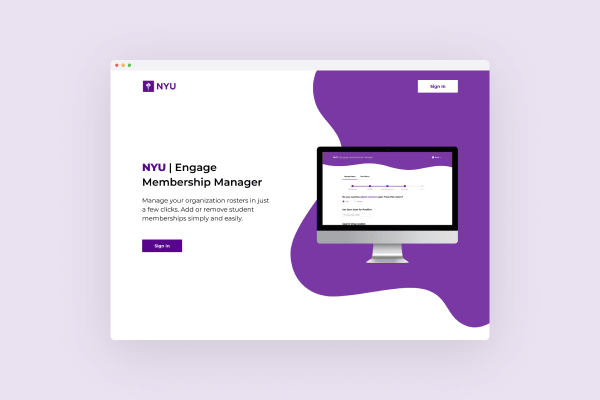
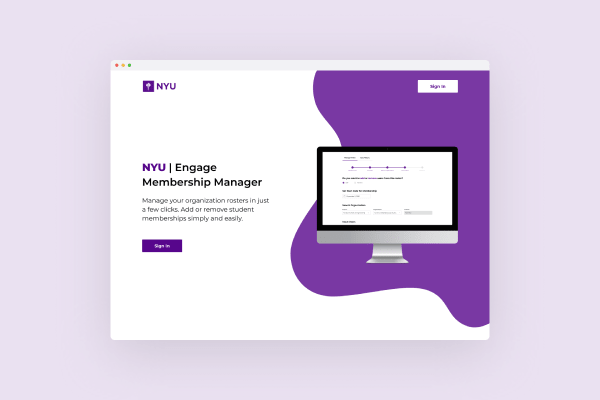
responsive scrollspy

Changed region(s): [[0.54, 0.36, 0.78, 0.57]]

diff --git a/pages/css/style.css b/pages/css/style.css
@@ -1,2 +1,2 @@
-@import url("https://use.typekit.net/pvq3wca.css");.container-xxl,.container-xl,.container-l,.container-m,.container-s,.container-xs,.container-xxs{margin:0 auto;width:95%;z-index:-1}.container-xxl{max-width:100%}.container-xl{max-width:1500px}.container-l{max-width:1200px}.container-m{max-width:1000px}.container-s{max-width:800px}.container-xs{max-width:680px}.container-xxs{max-width:450px}@media only screen and (min-width: 601px){.container-s,.container-xs,.container-xxs{width:85%}}@media only screen and (min-width: 993px){.container-s,.container-xs,.container-xxs{width:70%}}.col .row{margin-left:-.75rem;margin-right:-.75rem}.row{margin:30px 0}.row-paragraph{margin-top:60px}.row-parasection,.row-section{margin-top:100px}.row-intro{padding:50px 0}.row-tagline{padding:40px 0}@media only screen and (max-width: 601px){.row-intro{padding:20px 0}}.section{padding-top:1rem;padding-bottom:1rem}.section.no-pad{padding:0}.section.no-pad-bot{padding-bottom:0}.section.no-pad-top{padding-top:0}.row{margin-left:auto;margin-right:auto;margin-bottom:0}.row:after{content:"";display:table;clear:both}.row .col{float:left;-webkit-box-sizing:border-box;box-sizing:border-box;padding:0 .75rem;min-height:1px}.row .col[class*=pull-],.row .col[class*=push-]{position:relative}.row .col.s1{width:8.3333333333%;margin-left:auto;left:auto;right:auto}.row .col.s2{width:16.6666666667%;margin-left:auto;left:auto;right:auto}.row .col.s3{width:25%;margin-left:auto;left:auto;right:auto}.row .col.s4{width:33.3333333333%;margin-left:auto;left:auto;right:auto}.row .col.s5{width:41.6666666667%;margin-left:auto;left:auto;right:auto}.row .col.s6{width:50%;margin-left:auto;left:auto;right:auto}.row .col.s7{width:58.3333333333%;margin-left:auto;left:auto;right:auto}.row .col.s8{width:66.6666666667%;margin-left:auto;left:auto;right:auto}.row .col.s9{width:75%;margin-left:auto;left:auto;right:auto}.row .col.s10{width:83.3333333333%;margin-left:auto;left:auto;right:auto}.row .col.s11{width:91.6666666667%;margin-left:auto;left:auto;right:auto}.row .col.s12{width:100%;margin-left:auto;left:auto;right:auto}.row .col.offset-s1{margin-left:8.3333333333%}.row .col.pull-s1{right:8.3333333333%}.row .col.push-s1{left:8.3333333333%}.row .col.offset-s2{margin-left:16.6666666667%}.row .col.pull-s2{right:16.6666666667%}.row .col.push-s2{left:16.6666666667%}.row .col.offset-s3{margin-left:25%}.row .col.pull-s3{right:25%}.row .col.push-s3{left:25%}.row .col.offset-s4{margin-left:33.3333333333%}.row .col.pull-s4{right:33.3333333333%}.row .col.push-s4{left:33.3333333333%}.row .col.offset-s5{margin-left:41.6666666667%}.row .col.pull-s5{right:41.6666666667%}.row .col.push-s5{left:41.6666666667%}.row .col.offset-s6{margin-left:50%}.row .col.pull-s6{right:50%}.row .col.push-s6{left:50%}.row .col.offset-s7{margin-left:58.3333333333%}.row .col.pull-s7{right:58.3333333333%}.row .col.push-s7{left:58.3333333333%}.row .col.offset-s8{margin-left:66.6666666667%}.row .col.pull-s8{right:66.6666666667%}.row .col.push-s8{left:66.6666666667%}.row .col.offset-s9{margin-left:75%}.row .col.pull-s9{right:75%}.row .col.push-s9{left:75%}.row .col.offset-s10{margin-left:83.3333333333%}.row .col.pull-s10{right:83.3333333333%}.row .col.push-s10{left:83.3333333333%}.row .col.offset-s11{margin-left:91.6666666667%}.row .col.pull-s11{right:91.6666666667%}.row .col.push-s11{left:91.6666666667%}.row .col.offset-s12{margin-left:100%}.row .col.pull-s12{right:100%}.row .col.push-s12{left:100%}@media only screen and (min-width: 601px){.row .col.m1{width:8.3333333333%;margin-left:auto;left:auto;right:auto}.row .col.m2{width:16.6666666667%;margin-left:auto;left:auto;right:auto}.row .col.m3{width:25%;margin-left:auto;left:auto;right:auto}.row .col.m4{width:33.3333333333%;margin-left:auto;left:auto;right:auto}.row .col.m5{width:41.6666666667%;margin-left:auto;left:auto;right:auto}.row .col.m6{width:50%;margin-left:auto;left:auto;right:auto}.row .col.m7{width:58.3333333333%;margin-left:auto;left:auto;right:auto}.row .col.m8{width:66.6666666667%;margin-left:auto;left:auto;right:auto}.row .col.m9{width:75%;margin-left:auto;left:auto;right:auto}.row .col.m10{width:83.3333333333%;margin-left:auto;left:auto;right:auto}.row .col.m11{width:91.6666666667%;margin-left:auto;left:auto;right:auto}.row .col.m12{width:100%;margin-left:auto;left:auto;right:auto}.row .col.offset-m1{margin-left:8.3333333333%}.row .col.pull-m1{right:8.3333333333%}.row .col.push-m1{left:8.3333333333%}.row .col.offset-m2{margin-left:16.6666666667%}.row .col.pull-m2{right:16.6666666667%}.row .col.push-m2{left:16.6666666667%}.row .col.offset-m3{margin-left:25%}.row .col.pull-m3{right:25%}.row .col.push-m3{left:25%}.row .col.offset-m4{margin-left:33.3333333333%}.row .col.pull-m4{right:33.3333333333%}.row .col.push-m4{left:33.3333333333%}.row .col.offset-m5{margin-left:41.6666666667%}.row .col.pull-m5{right:41.6666666667%}.row .col.push-m5{left:41.6666666667%}.row .col.offset-m6{margin-left:50%}.row .col.pull-m6{right:50%}.row .col.push-m6{left:50%}.row .col.offset-m7{margin-left:58.3333333333%}.row .col.pull-m7{right:58.3333333333%}.row .col.push-m7{left:58.3333333333%}.row .col.offset-m8{margin-left:66.6666666667%}.row .col.pull-m8{right:66.6666666667%}.row .col.push-m8{left:66.6666666667%}.row .col.offset-m9{margin-left:75%}.row .col.pull-m9{right:75%}.row .col.push-m9{left:75%}.row .col.offset-m10{margin-left:83.3333333333%}.row .col.pull-m10{right:83.3333333333%}.row .col.push-m10{left:83.3333333333%}.row .col.offset-m11{margin-left:91.6666666667%}.row .col.pull-m11{right:91.6666666667%}.row .col.push-m11{left:91.6666666667%}.row .col.offset-m12{margin-left:100%}.row .col.pull-m12{right:100%}.row .col.push-m12{left:100%}}@media only screen and (min-width: 993px){.row .col.l1{width:8.3333333333%;margin-left:auto;left:auto;right:auto}.row .col.l2{width:16.6666666667%;margin-left:auto;left:auto;right:auto}.row .col.l3{width:25%;margin-left:auto;left:auto;right:auto}.row .col.l4{width:33.3333333333%;margin-left:auto;left:auto;right:auto}.row .col.l5{width:41.6666666667%;margin-left:auto;left:auto;right:auto}.row .col.l6{width:50%;margin-left:auto;left:auto;right:auto}.row .col.l7{width:58.3333333333%;margin-left:auto;left:auto;right:auto}.row .col.l8{width:66.6666666667%;margin-left:auto;left:auto;right:auto}.row .col.l9{width:75%;margin-left:auto;left:auto;right:auto}.row .col.l10{width:83.3333333333%;margin-left:auto;left:auto;right:auto}.row .col.l11{width:91.6666666667%;margin-left:auto;left:auto;right:auto}.row .col.l12{width:100%;margin-left:auto;left:auto;right:auto}.row .col.offset-l1{margin-left:8.3333333333%}.row .col.pull-l1{right:8.3333333333%}.row .col.push-l1{left:8.3333333333%}.row .col.offset-l2{margin-left:16.6666666667%}.row .col.pull-l2{right:16.6666666667%}.row .col.push-l2{left:16.6666666667%}.row .col.offset-l3{margin-left:25%}.row .col.pull-l3{right:25%}.row .col.push-l3{left:25%}.row .col.offset-l4{margin-left:33.3333333333%}.row .col.pull-l4{right:33.3333333333%}.row .col.push-l4{left:33.3333333333%}.row .col.offset-l5{margin-left:41.6666666667%}.row .col.pull-l5{right:41.6666666667%}.row .col.push-l5{left:41.6666666667%}.row .col.offset-l6{margin-left:50%}.row .col.pull-l6{right:50%}.row .col.push-l6{left:50%}.row .col.offset-l7{margin-left:58.3333333333%}.row .col.pull-l7{right:58.3333333333%}.row .col.push-l7{left:58.3333333333%}.row .col.offset-l8{margin-left:66.6666666667%}.row .col.pull-l8{right:66.6666666667%}.row .col.push-l8{left:66.6666666667%}.row .col.offset-l9{margin-left:75%}.row .col.pull-l9{right:75%}.row .col.push-l9{left:75%}.row .col.offset-l10{margin-left:83.3333333333%}.row .col.pull-l10{right:83.3333333333%}.row .col.push-l10{left:83.3333333333%}.row .col.offset-l11{margin-left:91.6666666667%}.row .col.pull-l11{right:91.6666666667%}.row .col.push-l11{left:91.6666666667%}.row .col.offset-l12{margin-left:100%}.row .col.pull-l12{right:100%}.row .col.push-l12{left:100%}}@media only screen and (min-width: 1201px){.row .col.xl1{width:8.3333333333%;margin-left:auto;left:auto;right:auto}.row .col.xl2{width:16.6666666667%;margin-left:auto;left:auto;right:auto}.row .col.xl3{width:25%;margin-left:auto;left:auto;right:auto}.row .col.xl4{width:33.3333333333%;margin-left:auto;left:auto;right:auto}.row .col.xl5{width:41.6666666667%;margin-left:auto;left:auto;right:auto}.row .col.xl6{width:50%;margin-left:auto;left:auto;right:auto}.row .col.xl7{width:58.3333333333%;margin-left:auto;left:auto;right:auto}.row .col.xl8{width:66.6666666667%;margin-left:auto;left:auto;right:auto}.row .col.xl9{width:75%;margin-left:auto;left:auto;right:auto}.row .col.xl10{width:83.3333333333%;margin-left:auto;left:auto;right:auto}.row .col.xl11{width:91.6666666667%;margin-left:auto;left:auto;right:auto}.row .col.xl12{width:100%;margin-left:auto;left:auto;right:auto}.row .col.offset-xl1{margin-left:8.3333333333%}.row .col.pull-xl1{right:8.3333333333%}.row .col.push-xl1{left:8.3333333333%}.row .col.offset-xl2{margin-left:16.6666666667%}.row .col.pull-xl2{right:16.6666666667%}.row .col.push-xl2{left:16.6666666667%}.row .col.offset-xl3{margin-left:25%}.row .col.pull-xl3{right:25%}.row .col.push-xl3{left:25%}.row .col.offset-xl4{margin-left:33.3333333333%}.row .col.pull-xl4{right:33.3333333333%}.row .col.push-xl4{left:33.3333333333%}.row .col.offset-xl5{margin-left:41.6666666667%}.row .col.pull-xl5{right:41.6666666667%}.row .col.push-xl5{left:41.6666666667%}.row .col.offset-xl6{margin-left:50%}.row .col.pull-xl6{right:50%}.row .col.push-xl6{left:50%}.row .col.offset-xl7{margin-left:58.3333333333%}.row .col.pull-xl7{right:58.3333333333%}.row .col.push-xl7{left:58.3333333333%}.row .col.offset-xl8{margin-left:66.6666666667%}.row .col.pull-xl8{right:66.6666666667%}.row .col.push-xl8{left:66.6666666667%}.row .col.offset-xl9{margin-left:75%}.row .col.pull-xl9{right:75%}.row .col.push-xl9{left:75%}.row .col.offset-xl10{margin-left:83.3333333333%}.row .col.pull-xl10{right:83.3333333333%}.row .col.push-xl10{left:83.3333333333%}.row .col.offset-xl11{margin-left:91.6666666667%}.row .col.pull-xl11{right:91.6666666667%}.row .col.push-xl11{left:91.6666666667%}.row .col.offset-xl12{margin-left:100%}.row .col.pull-xl12{right:100%}.row .col.push-xl12{left:100%}}html{overflow-y:scroll}body{font-family:canada-type-gibson, sans-serif;font-weight:300;font-style:normal;line-height:1.6;margin:0;padding:60px 0 0 0}b{font-weight:500}.list{margin:20px 0}::-webkit-scrollbar{width:8px}::-webkit-scrollbar-track{background:white}::-webkit-scrollbar-thumb{background:#757575}::-webkit-scrollbar-thumb:hover{background:#EB0014}::selection{background:#EB0014;color:white}::-moz-selection{background:#EB0014;color:white}.pace{-webkit-pointer-events:none;pointer-events:none;-webkit-user-select:none;-moz-user-select:none;user-select:none}.pace-inactive{display:none}.pace .pace-progress{background-image:linear-gradient(to left, #EB0014, #EB6100, #EBD700, #8AEB00, #00EBD7, #0089EB, #0014EB, #6200EB, #D700EB);background-image:-webkit-linear-gradient(to left, #EB0014, #EB6100, #EBD700, #8AEB00, #00EBD7, #0089EB, #0014EB, #6200EB, #D700EB);background-image:linear-gradient(to left, #EB0014, #EB6100, #EBD700, #8AEB00, #00EBD7, #0089EB, #0014EB, #6200EB, #D700EB);position:fixed;z-index:2000;top:0;right:100%;width:100%;height:4px}.subheader,.body,.body ul{margin-top:0}.header{font-weight:500;font-size:36px;text-align:center}.subheader{font-weight:500;font-size:24px}.body,li{font-size:18px}.body span,li span{font-weight:500;color:#EB0014}.body span a,li span a{color:#EB0014}.body span a:hover,li span a:hover{color:#B0000F}a{color:#EB0014;text-decoration:none}a:hover{transition:.3s;color:#B0000F;text-decoration:underline}.hint{font-size:13px;color:white}img{width:100%;max-width:100%;-khtml-user-select:none;-o-user-select:none;-moz-user-select:none;-webkit-user-select:none;user-select:none}video{max-width:100%;height:auto}.header-medium,.header-small{display:none}.round{border-radius:8px}.shadow{box-shadow:0 4px 12px 2px rgba(0,0,0,0.1);border-radius:6px}.caption{font-family:source-code-pro,monospace;font-size:13px;color:#757575;margin:4px 0}.caption span{font-style:italic;font-weight:bold;color:#757575}.caption a{text-underline-position:under}.hide{display:none !important}#navbar,#navItems{text-align:right;width:100%;box-sizing:border-box;position:fixed;top:0;left:0;height:60px;overflow:hidden;z-index:9999;transition:top .3s}.nav-logo,.nav-items{text-decoration:none}.nav-logo{position:relative;margin:0;z-index:99999}.nav-logo img{position:absolute;height:40px;cursor:pointer;top:10px;left:20px;display:inline;overflow:hidden}.nav-logo .swap__front{z-index:9999;transition:opacity .2s linear}.nav-logo:hover>.swap__front{opacity:0}.swap__front,.swap__back{width:auto}.nav-items{margin:0;padding-right:50px;line-height:65px;list-style:none}.nav-items li{display:inline-block;padding-left:50px}.nav-items li a{text-decoration:none;text-transform:uppercase;font-size:18px;color:#EB0014}.nav-items li a:hover{transition:.3s;color:#B0000F}.icon-bar{background-color:#EB0014;display:block;width:22px;height:2px;border-radius:1px;margin-bottom:4px;transition:opacity, transform;transition-duration:200ms;transition-timing-function:cubic-bezier(0.7, 0, 0, 0.7)}.hamburger-menu{cursor:pointer;position:fixed;top:25px;right:20px;z-index:9999;display:none;transition:top .3s}.hamburger-menu:not(.collapsed) .icon-bar:nth-child(1){transform:translateY(6px) rotate(45deg)}.hamburger-menu:not(.collapsed) .icon-bar:nth-child(2){opacity:0;transform:translateX(-10px)}.hamburger-menu:not(.collapsed) .icon-bar:nth-child(3){transform:translateY(-6px) rotate(-45deg)}.mobile-overlay{position:fixed;top:0;left:0;height:100%;width:100%;background:rgba(255,255,255,0.95);overflow:auto;z-index:999;display:none}.mobile-nav-items{padding:0;margin:65px 0px;text-align:center;list-style:none}.mobile-nav-items li{display:block;padding-top:30px}.mobile-nav-items li a{text-decoration:none;font-size:24px;color:#EB0014;text-transform:uppercase}.mobile-nav-items li a:hover{transition:.3s;color:#B0000F}.sticky{position:-webkit-sticky;position:sticky;top:0}.sticky>nav{position:absolute;align-self:start;margin-top:80px}.section-nav{font-family:source-code-pro,monospace;position:fixed;z-index:1;right:25px;overflow-x:hidden;padding-left:0;border-left:1px solid rgba(0,0,0,0.1);max-width:200px;width:90%}.section-nav a{text-decoration:none;display:block;padding:.125rem 0;color:#757575;transition:all 50ms ease-in-out}.section-nav a:hover,.section-nav a:focus{color:#EB0014;transition:.3s;font-weight:bold}.scrollspy-list,.scrollspy-order{list-style:none;margin:0;padding:0}.scrollspy{margin-left:1rem;padding:1.5px 0;font-size:13px}.scrollspy.active>a{color:#EB0014;font-weight:bold}.bottom-nav,.tab button{font-family:canada-type-gibson, sans-serif;font-weight:300;font-style:normal;background-color:white;box-shadow:0 4px 12px 2px rgba(0,0,0,0.1);border:none;padding:20px;width:100%;display:inline-block;margin:10px 0;cursor:pointer;color:#757575;font-size:18px;border-radius:6px}.bottom-nav:hover,.tab button:hover{color:#EB0014;transition:.3s}.tab button.active{background-color:#F0F0F0;color:black;box-shadow:none;outline:none}.resource{background-color:white;box-shadow:0 4px 12px 2px rgba(0,0,0,0.1);border-radius:6px;padding:32px;margin:0;height:330px}.footer-bar{margin:80px 0 50px 0}.footer-bar .fa-envelope,.footer-bar .fa-linkedin-in,.footer-bar .fa-instagram,.footer-bar .fa-vimeo-v,.footer-bar .fa-github,.footer-bar .fa-dribbble,.footer-bar .fa-behance{display:inline-block;padding:8px;font-size:20px;width:20px;height:20px;text-align:center;text-decoration:none;margin:0 5px 0 0;border-radius:50%;background:#EB0014;color:white}.footer-bar .fa-envelope:hover,.footer-bar .fa-linkedin-in:hover,.footer-bar .fa-instagram:hover,.footer-bar .fa-vimeo-v:hover,.footer-bar .fa-github:hover,.footer-bar .fa-dribbble:hover,.footer-bar .fa-behance:hover{transition:.3s;background:#B0000F}.back-to-top a{color:#EB0014}.back-to-top a:hover{color:#B0000F}.copyright{font-family:source-code-pro,monospace;font-size:13px;color:#757575;margin-top:50px}.grid,.tabcontent{margin-left:auto;margin-right:auto}.grid:after,.tabcontent:after{content:'';display:block;clear:both}.grid-sizer--width1,.grid-item--width1{margin:1.5%;width:30.33333333%}.grid-sizer--width2,.grid-item--width2{margin:1.5%;width:47%}.grid-item{float:left;height:auto}.grid-item img{display:block}.grid-item .fa-video,.grid-item .fa-external-link-alt{font-size:24px;color:white;opacity:0.8;text-shadow:1px 1px 8px rgba(0,0,0,0.5);position:absolute;top:16px}.grid-item .fa-video{left:16px}.grid-item .fa-external-link-alt{right:16px}.tagline,.specs-title,.specs-list{margin:12px 0}.tagline{font-size:32px;color:#757575;font-family:source-code-pro,monospace}.specs{list-style:none;color:#757575;padding:0}.specs-title,.specs-list{font-size:18px}.specs-title{font-weight:500}.specs-mobile{font-size:18px;color:#757575;padding:0;display:none}@media only screen and (max-width: 1479px){.section-nav{display:none}}@media only screen and (max-width: 1200px){.about{margin-top:40px}}@media only screen and (max-width: 992px){.header-large{display:none}.header-medium{display:block}.animation,.hint{display:none}.grid-sizer--width1,.grid-item--width1{width:47%}}@media only screen and (max-width: 601px){.row-paragraph{margin-top:30px}.row-parasection{margin-top:60px}#navItems{background:none}.hamburger-menu,.specs-mobile{display:block}.nav-items,.specs{display:none}.header-medium{display:none}.header-small{display:block}.header{font-size:32px}.tagline{font-size:24px}.subheader{font-size:21px}.body,.quickNav a.selected,.quickNav a.unselected,li,.subheader-left,.subheader-right,.specs-mobile,.fa-arrow-up,.button-details p{font-size:16px}.copyright,.caption,.button{font-size:12px}.caption{margin:6px 0}.grid-item .fa-video,.grid-item .fa-external-link-alt{font-size:21px;top:12px}.grid-item .fa-video{left:12px}.grid-item .fa-external-link-alt{right:12px}.grid-sizer--width1,.grid-item--width1,.grid-sizer--width2,.grid-item--width2{margin:3%;width:94%}.row-tagline{padding:20px 0}.resource{height:auto}}@media only screen and (max-width: 361px){.header,.tagline{font-size:28px}}
+@import url("https://use.typekit.net/pvq3wca.css");.container-xxl,.container-xl,.container-l,.container-m,.container-s,.container-xs,.container-xxs{margin:0 auto;width:95%;z-index:-1}.container-xxl{max-width:100%}.container-xl{max-width:1500px}.container-l{max-width:1200px}.container-m{max-width:1000px}.container-s{max-width:800px}.container-xs{max-width:680px}.container-xxs{max-width:450px}@media only screen and (min-width: 601px){.container-s,.container-xs,.container-xxs{width:85%}}@media only screen and (min-width: 993px){.container-s,.container-xs,.container-xxs{width:70%}}.col .row{margin-left:-.75rem;margin-right:-.75rem}.row{margin:30px 0}.row-paragraph{margin-top:60px}.row-parasection,.row-section{margin-top:100px}.row-intro{padding:50px 0}.row-tagline{padding:40px 0}@media only screen and (max-width: 601px){.row-intro{padding:20px 0}}.section{padding-top:1rem;padding-bottom:1rem}.section.no-pad{padding:0}.section.no-pad-bot{padding-bottom:0}.section.no-pad-top{padding-top:0}.row{margin-left:auto;margin-right:auto;margin-bottom:0}.row:after{content:"";display:table;clear:both}.row .col{float:left;-webkit-box-sizing:border-box;box-sizing:border-box;padding:0 .75rem;min-height:1px}.row .col[class*=pull-],.row .col[class*=push-]{position:relative}.row .col.s1{width:8.3333333333%;margin-left:auto;left:auto;right:auto}.row .col.s2{width:16.6666666667%;margin-left:auto;left:auto;right:auto}.row .col.s3{width:25%;margin-left:auto;left:auto;right:auto}.row .col.s4{width:33.3333333333%;margin-left:auto;left:auto;right:auto}.row .col.s5{width:41.6666666667%;margin-left:auto;left:auto;right:auto}.row .col.s6{width:50%;margin-left:auto;left:auto;right:auto}.row .col.s7{width:58.3333333333%;margin-left:auto;left:auto;right:auto}.row .col.s8{width:66.6666666667%;margin-left:auto;left:auto;right:auto}.row .col.s9{width:75%;margin-left:auto;left:auto;right:auto}.row .col.s10{width:83.3333333333%;margin-left:auto;left:auto;right:auto}.row .col.s11{width:91.6666666667%;margin-left:auto;left:auto;right:auto}.row .col.s12{width:100%;margin-left:auto;left:auto;right:auto}.row .col.offset-s1{margin-left:8.3333333333%}.row .col.pull-s1{right:8.3333333333%}.row .col.push-s1{left:8.3333333333%}.row .col.offset-s2{margin-left:16.6666666667%}.row .col.pull-s2{right:16.6666666667%}.row .col.push-s2{left:16.6666666667%}.row .col.offset-s3{margin-left:25%}.row .col.pull-s3{right:25%}.row .col.push-s3{left:25%}.row .col.offset-s4{margin-left:33.3333333333%}.row .col.pull-s4{right:33.3333333333%}.row .col.push-s4{left:33.3333333333%}.row .col.offset-s5{margin-left:41.6666666667%}.row .col.pull-s5{right:41.6666666667%}.row .col.push-s5{left:41.6666666667%}.row .col.offset-s6{margin-left:50%}.row .col.pull-s6{right:50%}.row .col.push-s6{left:50%}.row .col.offset-s7{margin-left:58.3333333333%}.row .col.pull-s7{right:58.3333333333%}.row .col.push-s7{left:58.3333333333%}.row .col.offset-s8{margin-left:66.6666666667%}.row .col.pull-s8{right:66.6666666667%}.row .col.push-s8{left:66.6666666667%}.row .col.offset-s9{margin-left:75%}.row .col.pull-s9{right:75%}.row .col.push-s9{left:75%}.row .col.offset-s10{margin-left:83.3333333333%}.row .col.pull-s10{right:83.3333333333%}.row .col.push-s10{left:83.3333333333%}.row .col.offset-s11{margin-left:91.6666666667%}.row .col.pull-s11{right:91.6666666667%}.row .col.push-s11{left:91.6666666667%}.row .col.offset-s12{margin-left:100%}.row .col.pull-s12{right:100%}.row .col.push-s12{left:100%}@media only screen and (min-width: 601px){.row .col.m1{width:8.3333333333%;margin-left:auto;left:auto;right:auto}.row .col.m2{width:16.6666666667%;margin-left:auto;left:auto;right:auto}.row .col.m3{width:25%;margin-left:auto;left:auto;right:auto}.row .col.m4{width:33.3333333333%;margin-left:auto;left:auto;right:auto}.row .col.m5{width:41.6666666667%;margin-left:auto;left:auto;right:auto}.row .col.m6{width:50%;margin-left:auto;left:auto;right:auto}.row .col.m7{width:58.3333333333%;margin-left:auto;left:auto;right:auto}.row .col.m8{width:66.6666666667%;margin-left:auto;left:auto;right:auto}.row .col.m9{width:75%;margin-left:auto;left:auto;right:auto}.row .col.m10{width:83.3333333333%;margin-left:auto;left:auto;right:auto}.row .col.m11{width:91.6666666667%;margin-left:auto;left:auto;right:auto}.row .col.m12{width:100%;margin-left:auto;left:auto;right:auto}.row .col.offset-m1{margin-left:8.3333333333%}.row .col.pull-m1{right:8.3333333333%}.row .col.push-m1{left:8.3333333333%}.row .col.offset-m2{margin-left:16.6666666667%}.row .col.pull-m2{right:16.6666666667%}.row .col.push-m2{left:16.6666666667%}.row .col.offset-m3{margin-left:25%}.row .col.pull-m3{right:25%}.row .col.push-m3{left:25%}.row .col.offset-m4{margin-left:33.3333333333%}.row .col.pull-m4{right:33.3333333333%}.row .col.push-m4{left:33.3333333333%}.row .col.offset-m5{margin-left:41.6666666667%}.row .col.pull-m5{right:41.6666666667%}.row .col.push-m5{left:41.6666666667%}.row .col.offset-m6{margin-left:50%}.row .col.pull-m6{right:50%}.row .col.push-m6{left:50%}.row .col.offset-m7{margin-left:58.3333333333%}.row .col.pull-m7{right:58.3333333333%}.row .col.push-m7{left:58.3333333333%}.row .col.offset-m8{margin-left:66.6666666667%}.row .col.pull-m8{right:66.6666666667%}.row .col.push-m8{left:66.6666666667%}.row .col.offset-m9{margin-left:75%}.row .col.pull-m9{right:75%}.row .col.push-m9{left:75%}.row .col.offset-m10{margin-left:83.3333333333%}.row .col.pull-m10{right:83.3333333333%}.row .col.push-m10{left:83.3333333333%}.row .col.offset-m11{margin-left:91.6666666667%}.row .col.pull-m11{right:91.6666666667%}.row .col.push-m11{left:91.6666666667%}.row .col.offset-m12{margin-left:100%}.row .col.pull-m12{right:100%}.row .col.push-m12{left:100%}}@media only screen and (min-width: 993px){.row .col.l1{width:8.3333333333%;margin-left:auto;left:auto;right:auto}.row .col.l2{width:16.6666666667%;margin-left:auto;left:auto;right:auto}.row .col.l3{width:25%;margin-left:auto;left:auto;right:auto}.row .col.l4{width:33.3333333333%;margin-left:auto;left:auto;right:auto}.row .col.l5{width:41.6666666667%;margin-left:auto;left:auto;right:auto}.row .col.l6{width:50%;margin-left:auto;left:auto;right:auto}.row .col.l7{width:58.3333333333%;margin-left:auto;left:auto;right:auto}.row .col.l8{width:66.6666666667%;margin-left:auto;left:auto;right:auto}.row .col.l9{width:75%;margin-left:auto;left:auto;right:auto}.row .col.l10{width:83.3333333333%;margin-left:auto;left:auto;right:auto}.row .col.l11{width:91.6666666667%;margin-left:auto;left:auto;right:auto}.row .col.l12{width:100%;margin-left:auto;left:auto;right:auto}.row .col.offset-l1{margin-left:8.3333333333%}.row .col.pull-l1{right:8.3333333333%}.row .col.push-l1{left:8.3333333333%}.row .col.offset-l2{margin-left:16.6666666667%}.row .col.pull-l2{right:16.6666666667%}.row .col.push-l2{left:16.6666666667%}.row .col.offset-l3{margin-left:25%}.row .col.pull-l3{right:25%}.row .col.push-l3{left:25%}.row .col.offset-l4{margin-left:33.3333333333%}.row .col.pull-l4{right:33.3333333333%}.row .col.push-l4{left:33.3333333333%}.row .col.offset-l5{margin-left:41.6666666667%}.row .col.pull-l5{right:41.6666666667%}.row .col.push-l5{left:41.6666666667%}.row .col.offset-l6{margin-left:50%}.row .col.pull-l6{right:50%}.row .col.push-l6{left:50%}.row .col.offset-l7{margin-left:58.3333333333%}.row .col.pull-l7{right:58.3333333333%}.row .col.push-l7{left:58.3333333333%}.row .col.offset-l8{margin-left:66.6666666667%}.row .col.pull-l8{right:66.6666666667%}.row .col.push-l8{left:66.6666666667%}.row .col.offset-l9{margin-left:75%}.row .col.pull-l9{right:75%}.row .col.push-l9{left:75%}.row .col.offset-l10{margin-left:83.3333333333%}.row .col.pull-l10{right:83.3333333333%}.row .col.push-l10{left:83.3333333333%}.row .col.offset-l11{margin-left:91.6666666667%}.row .col.pull-l11{right:91.6666666667%}.row .col.push-l11{left:91.6666666667%}.row .col.offset-l12{margin-left:100%}.row .col.pull-l12{right:100%}.row .col.push-l12{left:100%}}@media only screen and (min-width: 1201px){.row .col.xl1{width:8.3333333333%;margin-left:auto;left:auto;right:auto}.row .col.xl2{width:16.6666666667%;margin-left:auto;left:auto;right:auto}.row .col.xl3{width:25%;margin-left:auto;left:auto;right:auto}.row .col.xl4{width:33.3333333333%;margin-left:auto;left:auto;right:auto}.row .col.xl5{width:41.6666666667%;margin-left:auto;left:auto;right:auto}.row .col.xl6{width:50%;margin-left:auto;left:auto;right:auto}.row .col.xl7{width:58.3333333333%;margin-left:auto;left:auto;right:auto}.row .col.xl8{width:66.6666666667%;margin-left:auto;left:auto;right:auto}.row .col.xl9{width:75%;margin-left:auto;left:auto;right:auto}.row .col.xl10{width:83.3333333333%;margin-left:auto;left:auto;right:auto}.row .col.xl11{width:91.6666666667%;margin-left:auto;left:auto;right:auto}.row .col.xl12{width:100%;margin-left:auto;left:auto;right:auto}.row .col.offset-xl1{margin-left:8.3333333333%}.row .col.pull-xl1{right:8.3333333333%}.row .col.push-xl1{left:8.3333333333%}.row .col.offset-xl2{margin-left:16.6666666667%}.row .col.pull-xl2{right:16.6666666667%}.row .col.push-xl2{left:16.6666666667%}.row .col.offset-xl3{margin-left:25%}.row .col.pull-xl3{right:25%}.row .col.push-xl3{left:25%}.row .col.offset-xl4{margin-left:33.3333333333%}.row .col.pull-xl4{right:33.3333333333%}.row .col.push-xl4{left:33.3333333333%}.row .col.offset-xl5{margin-left:41.6666666667%}.row .col.pull-xl5{right:41.6666666667%}.row .col.push-xl5{left:41.6666666667%}.row .col.offset-xl6{margin-left:50%}.row .col.pull-xl6{right:50%}.row .col.push-xl6{left:50%}.row .col.offset-xl7{margin-left:58.3333333333%}.row .col.pull-xl7{right:58.3333333333%}.row .col.push-xl7{left:58.3333333333%}.row .col.offset-xl8{margin-left:66.6666666667%}.row .col.pull-xl8{right:66.6666666667%}.row .col.push-xl8{left:66.6666666667%}.row .col.offset-xl9{margin-left:75%}.row .col.pull-xl9{right:75%}.row .col.push-xl9{left:75%}.row .col.offset-xl10{margin-left:83.3333333333%}.row .col.pull-xl10{right:83.3333333333%}.row .col.push-xl10{left:83.3333333333%}.row .col.offset-xl11{margin-left:91.6666666667%}.row .col.pull-xl11{right:91.6666666667%}.row .col.push-xl11{left:91.6666666667%}.row .col.offset-xl12{margin-left:100%}.row .col.pull-xl12{right:100%}.row .col.push-xl12{left:100%}}html{overflow-y:scroll}body{font-family:canada-type-gibson, sans-serif;font-weight:300;font-style:normal;line-height:1.6;margin:0;padding:60px 0 0 0}b{font-weight:500}.list{margin:20px 0}::-webkit-scrollbar{width:8px}::-webkit-scrollbar-track{background:white}::-webkit-scrollbar-thumb{background:#757575}::-webkit-scrollbar-thumb:hover{background:#EB0014}::selection{background:#EB0014;color:white}::-moz-selection{background:#EB0014;color:white}.pace{-webkit-pointer-events:none;pointer-events:none;-webkit-user-select:none;-moz-user-select:none;user-select:none}.pace-inactive{display:none}.pace .pace-progress{background-image:linear-gradient(to left, #EB0014, #EB6100, #EBD700, #8AEB00, #00EBD7, #0089EB, #0014EB, #6200EB, #D700EB);background-image:-webkit-linear-gradient(to left, #EB0014, #EB6100, #EBD700, #8AEB00, #00EBD7, #0089EB, #0014EB, #6200EB, #D700EB);background-image:linear-gradient(to left, #EB0014, #EB6100, #EBD700, #8AEB00, #00EBD7, #0089EB, #0014EB, #6200EB, #D700EB);position:fixed;z-index:2000;top:0;right:100%;width:100%;height:4px}.subheader,.body,.body ul{margin-top:0}.header{font-weight:500;font-size:36px;text-align:center}.subheader{font-weight:500;font-size:24px}.body,li{font-size:18px}.body span,li span{font-weight:500;color:#EB0014}.body span a,li span a{color:#EB0014}.body span a:hover,li span a:hover{color:#B0000F}a{color:#EB0014;text-decoration:none}a:hover{transition:.3s;color:#B0000F;text-decoration:underline}.hint{font-size:13px;color:white}img{width:100%;max-width:100%;-khtml-user-select:none;-o-user-select:none;-moz-user-select:none;-webkit-user-select:none;user-select:none}video{max-width:100%;height:auto}.header-medium,.header-small{display:none}.round{border-radius:8px}.shadow{box-shadow:0 4px 12px 2px rgba(0,0,0,0.1);border-radius:6px}.caption{font-family:source-code-pro,monospace;font-size:13px;color:#757575;margin:4px 0}.caption span{font-style:italic;font-weight:bold;color:#757575}.caption a{text-underline-position:under}.hide{display:none !important}#navbar,#navItems{text-align:right;width:100%;box-sizing:border-box;position:fixed;top:0;left:0;height:60px;overflow:hidden;z-index:9999;transition:top .3s}.nav-logo,.nav-items{text-decoration:none}.nav-logo{position:relative;margin:0;z-index:99999}.nav-logo img{position:absolute;height:40px;cursor:pointer;top:10px;left:20px;display:inline;overflow:hidden}.nav-logo .swap__front{z-index:9999;transition:opacity .2s linear}.nav-logo:hover>.swap__front{opacity:0}.swap__front,.swap__back{width:auto}.nav-items{margin:0;padding-right:50px;line-height:65px;list-style:none}.nav-items li{display:inline-block;padding-left:50px}.nav-items li a{text-decoration:none;text-transform:uppercase;font-size:18px;color:#EB0014}.nav-items li a:hover{transition:.3s;color:#B0000F}.icon-bar{background-color:#EB0014;display:block;width:22px;height:2px;border-radius:1px;margin-bottom:4px;transition:opacity, transform;transition-duration:200ms;transition-timing-function:cubic-bezier(0.7, 0, 0, 0.7)}.hamburger-menu{cursor:pointer;position:fixed;top:25px;right:20px;z-index:9999;display:none;transition:top .3s}.hamburger-menu:not(.collapsed) .icon-bar:nth-child(1){transform:translateY(6px) rotate(45deg)}.hamburger-menu:not(.collapsed) .icon-bar:nth-child(2){opacity:0;transform:translateX(-10px)}.hamburger-menu:not(.collapsed) .icon-bar:nth-child(3){transform:translateY(-6px) rotate(-45deg)}.mobile-overlay{position:fixed;top:0;left:0;height:100%;width:100%;background:rgba(255,255,255,0.95);overflow:auto;z-index:999;display:none}.mobile-nav-items{padding:0;margin:65px 0px;text-align:center;list-style:none}.mobile-nav-items li{display:block;padding-top:30px}.mobile-nav-items li a{text-decoration:none;font-size:24px;color:#EB0014;text-transform:uppercase}.mobile-nav-items li a:hover{transition:.3s;color:#B0000F}.sticky{position:-webkit-sticky;position:sticky;top:0}.sticky>nav{position:absolute;align-self:start;margin-top:80px}.section-nav{font-family:source-code-pro,monospace;position:fixed;z-index:1;right:25px;overflow-x:hidden;padding-left:0;border-left:1px solid rgba(0,0,0,0.1);max-width:200px;width:90%}.section-nav a{text-decoration:none;display:block;padding:.125rem 0;color:#757575;transition:all 50ms ease-in-out}.section-nav a:hover,.section-nav a:focus{color:#EB0014;transition:.3s;font-weight:bold}.scrollspy-list,.scrollspy-order{list-style:none;margin:0;padding:0}.scrollspy{margin-left:1rem;padding:1.5px 0;font-size:13px}.scrollspy.active>a{color:#EB0014;font-weight:bold}.bottom-nav,.tab button{font-family:canada-type-gibson, sans-serif;font-weight:300;font-style:normal;background-color:white;box-shadow:0 4px 12px 2px rgba(0,0,0,0.1);border:none;padding:20px;width:100%;display:inline-block;margin:10px 0;cursor:pointer;color:#757575;font-size:18px;border-radius:6px}.bottom-nav:hover,.tab button:hover{color:#EB0014;transition:.3s}.tab button.active{background-color:#F0F0F0;color:black;box-shadow:none;outline:none}.resource{background-color:white;box-shadow:0 4px 12px 2px rgba(0,0,0,0.1);border-radius:6px;padding:32px;margin:0;height:330px}.footer-bar{margin:80px 0 50px 0}.footer-bar .fa-envelope,.footer-bar .fa-linkedin-in,.footer-bar .fa-instagram,.footer-bar .fa-vimeo-v,.footer-bar .fa-github,.footer-bar .fa-dribbble,.footer-bar .fa-behance{display:inline-block;padding:8px;font-size:20px;width:20px;height:20px;text-align:center;text-decoration:none;margin:0 5px 0 0;border-radius:50%;background:#EB0014;color:white}.footer-bar .fa-envelope:hover,.footer-bar .fa-linkedin-in:hover,.footer-bar .fa-instagram:hover,.footer-bar .fa-vimeo-v:hover,.footer-bar .fa-github:hover,.footer-bar .fa-dribbble:hover,.footer-bar .fa-behance:hover{transition:.3s;background:#B0000F}.back-to-top a{color:#EB0014}.back-to-top a:hover{color:#B0000F}.copyright{font-family:source-code-pro,monospace;font-size:13px;color:#757575;margin-top:50px}.grid,.tabcontent{margin-left:auto;margin-right:auto}.grid:after,.tabcontent:after{content:'';display:block;clear:both}.grid-sizer--width1,.grid-item--width1{margin:1.5%;width:30.33333333%}.grid-sizer--width2,.grid-item--width2{margin:1.5%;width:47%}.grid-item{float:left;height:auto}.grid-item img{display:block}.grid-item .fa-video,.grid-item .fa-external-link-alt{font-size:24px;color:white;opacity:0.8;text-shadow:1px 1px 8px rgba(0,0,0,0.5);position:absolute;top:16px}.grid-item .fa-video{left:16px}.grid-item .fa-external-link-alt{right:16px}.tagline,.specs-title,.specs-list{margin:12px 0}.tagline{font-size:32px;color:#757575;font-family:source-code-pro,monospace}.specs{list-style:none;color:#757575;padding:0}.specs-title,.specs-list{font-size:18px}.specs-title{font-weight:500}.specs-mobile{font-size:18px;color:#757575;padding:0;display:none}@media only screen and (max-width: 1479px){.section-nav{max-width:140px}.section-nav a{font-size:12px}}@media only screen and (max-width: 1339px){.section-nav{display:none}}@media only screen and (max-width: 992px){.header-large{display:none}.header-medium{display:block}.animation,.hint{display:none}.grid-sizer--width1,.grid-item--width1{width:47%}}@media only screen and (max-width: 601px){.row-paragraph{margin-top:30px}.row-parasection{margin-top:60px}#navItems{background:none}.hamburger-menu,.specs-mobile{display:block}.nav-items,.specs{display:none}.header-medium{display:none}.header-small{display:block}.header{font-size:32px}.tagline{font-size:24px}.subheader{font-size:21px}.body,.quickNav a.selected,.quickNav a.unselected,li,.subheader-left,.subheader-right,.specs-mobile,.fa-arrow-up,.button-details p{font-size:16px}.copyright,.caption,.button{font-size:12px}.caption{margin:6px 0}.grid-item .fa-video,.grid-item .fa-external-link-alt{font-size:21px;top:12px}.grid-item .fa-video{left:12px}.grid-item .fa-external-link-alt{right:12px}.grid-sizer--width1,.grid-item--width1,.grid-sizer--width2,.grid-item--width2{margin:3%;width:94%}.row-tagline{padding:20px 0}.resource{height:auto}}@media only screen and (max-width: 361px){.header,.tagline{font-size:28px}}
 /*# sourceMappingURL=style.css.map */

diff --git a/amazon.html b/amazon.html
@@ -89,7 +89,7 @@
             </div>
             <div class="col s12">
                 <div class="specs-mobile">
-                    <p><b>Company:</b> Amazon</p>
+                    <p><b>Company:</b> Amazon (Alexa mobile)</p>
                     <p><b>Strategies:</b> Research, UX/UI Design</p>
                     <p><b>Timeline:</b> Jun - Aug 2020</p>
                     <p><b>Tools used:</b> Sketch</p>
@@ -133,7 +133,7 @@
             </div>
         </div>
         <section id="other--invites">
-            <div class="row row-paragraph" data-aos="fade-up" data-aos-duration="1200" data-aos-once="true">
+            <div class="row row-parasection" data-aos="fade-up" data-aos-duration="1200" data-aos-once="true">
                 <div class="col l10 offset-l1 m12 s12">
                     <p class="body"><b>Alexa Invites</b></p>
                     <p class="body">On December 7, 2020, Amazon launched Alexa Invites in the Alexa app in the US region. With this launch, Alexa customers can invite their friends and family to also get Alexa for video calling, music sharing and more; no device required.</p>
@@ -145,9 +145,11 @@
                 </div>
                 <div class="row col m4 offset-m2 s6">
                     <img src="media/amazon/invites-01-contact-page-min.png" alt="Screenshot of Alexa mobile app contact page">
+                    <p class="caption" style="text-align:center;">Step 1 - Contact page</p>
                 </div>
                 <div class="row col m4 s6">
                     <img src="media/amazon/invites-02-send-message-min.png" alt="Screenshot of sending an SMS invitation link">
+                    <p class="caption" style="text-align:center;">Step 2 - Send invite link</p>
                 </div>
             </div>
             <div class="row row-paragraph" data-aos="fade-up" data-aos-duration="1200" data-aos-once="true">

diff --git a/spicy.html b/spicy.html
@@ -84,12 +84,6 @@
                 <p class="caption">Tools used: Adobe After Effects, Illustrator</p>
             </div>
             <div class="grid-item grid-item--width2">
-                <a href="https://www.behance.net/gallery/91062561/Gina-Chee-Personal-Branding-UXUI-Development" target="_blank"><img src="media/spice-rack/digital/personal-branding-min.png" alt="Mockup of the web and mobile version of my website"><i class="fas fa-external-link-alt"></i></a>
-                <p class="caption"><span><a href="https://www.behance.net/gallery/91062561/Gina-Chee-Personal-Branding-UXUI-Development" target="_blank">Portfolio Development</a></span>, 2018 - Present</p>
-                <p class="caption">Branding design, UX/UI design, front-end development</p>
-                <p class="caption">Tools used: Figma, HTML / CSS</p>
-            </div>
-            <div class="grid-item grid-item--width2">
                 <div style="padding:56.25% 0 0 0;position:relative;"><iframe src="https://player.vimeo.com/video/335178274?color=ff3b4a&title=0&byline=0&portrait=0" style="position:absolute;top:0;left:0;width:100%;height:100%;" frameborder="0" allow="autoplay; fullscreen" allowfullscreen></iframe></div><script src="https://player.vimeo.com/api/player.js"></script>
                 <p class="caption"><span>How to Take an Instagram Picture</span>, 2019</p>
                 <p class="caption">2D animation, motion graphics</p>

diff --git a/nyu-engage.html b/nyu-engage.html
@@ -48,6 +48,22 @@
         <ol class="scrollspy-order">
             <li class="scrollspy"><a href="#intro">📋</a></li>
             <li class="scrollspy"><a href="#overview">Overview</a></li>
+            <li class="scrollspy"><a href="#discovery">Discovery</a>
+                <ul class="scrollspy-list">
+                    <li class="scrollspy"><a href="#discovery--persona">Persona</a></li>
+                    <li class="scrollspy"><a href="#discovery--user-flow">User Flow</a></li>
+                    <li class="scrollspy"><a href="#discovery--card-sort">Card Sorting</a></li>
+                </ul>
+            </li>
+            <li class="scrollspy"><a href="#design">Design</a>
+                <ul class="scrollspy-list">
+                    <li class="scrollspy"><a href="#design--landing">Landing Page</a></li>
+                    <li class="scrollspy"><a href="#design--manage-roster">Manage Roster</a></li>
+                    <li class="scrollspy"><a href="#design--task-history">Task History</a></li>
+                    <li class="scrollspy"><a href="#design--iterations">Iterations</a></li>
+                </ul>
+            </li>
+            <li class="scrollspy"><a href="#testing">User Testing</a></li>
             <li class="scrollspy"><a href="#conclusion">Conclusion</a></li>
         </ol>
     </nav>

diff --git a/pages/css/style.scss b/pages/css/style.scss
@@ -299,17 +299,17 @@ video {
   border-left: 1px solid rgba(0,0,0,0.1);
   max-width:200px;
   width: 90%;
-}
-.section-nav a {
-  text-decoration: none;
-  display: block;
-  padding: .125rem 0;
-  color: $gray-color;
-  transition: all 50ms ease-in-out; /* 💡 This small transition makes setting of the active state smooth */
-  &:hover, &:focus {
-    color: $accent-color;
-    transition: $transition-speed;
-    font-weight: bold;
+  a {
+    text-decoration: none;
+    display: block;
+    padding: .125rem 0;
+    color: $gray-color;
+    transition: all 50ms ease-in-out; /* 💡 This small transition makes setting of the active state smooth */
+    &:hover, &:focus {
+      color: $accent-color;
+      transition: $transition-speed;
+      font-weight: bold;
+    }
   }
 }
 .scrollspy-list, .scrollspy-order {
@@ -457,12 +457,15 @@ video {
 }
 @media only screen and (max-width: 1479px) {
   .section-nav {
-    display: none;
+    max-width: 140px;
+    a {
+      font-size: $caption-small;
+    }
   }
 }
-@media only screen and (max-width: 1200px) {
-  .about {
-    margin-top: 40px;
+@media only screen and (max-width: 1339px) {
+  .section-nav {
+    display: none;
   }
 }
 @media only screen and (max-width: 992px) {
